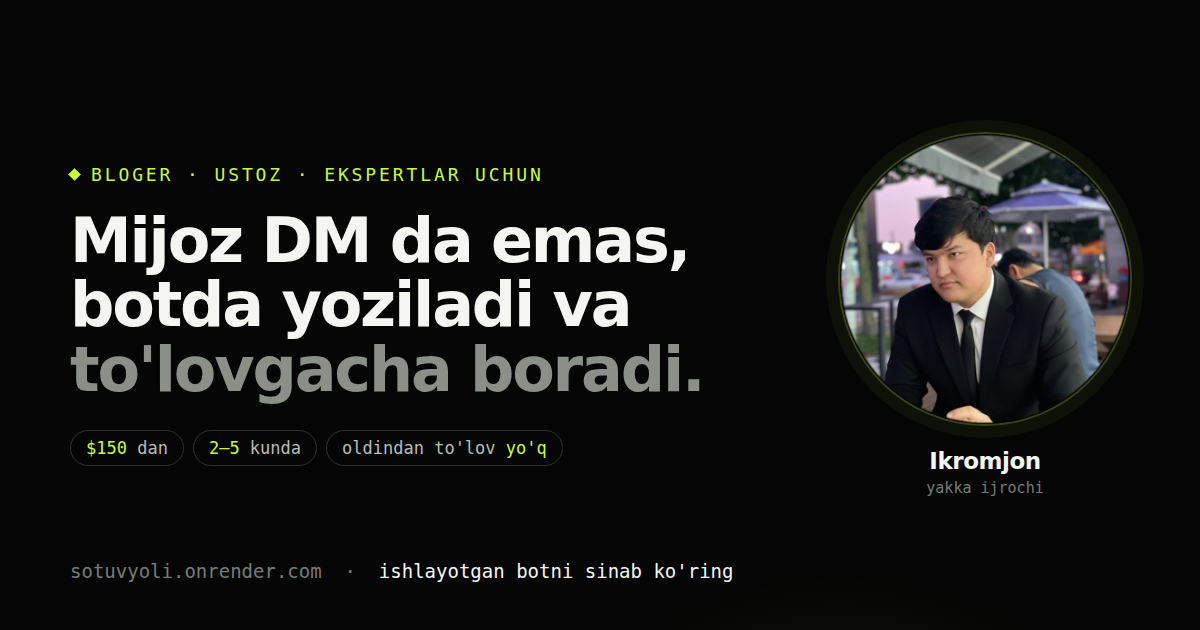
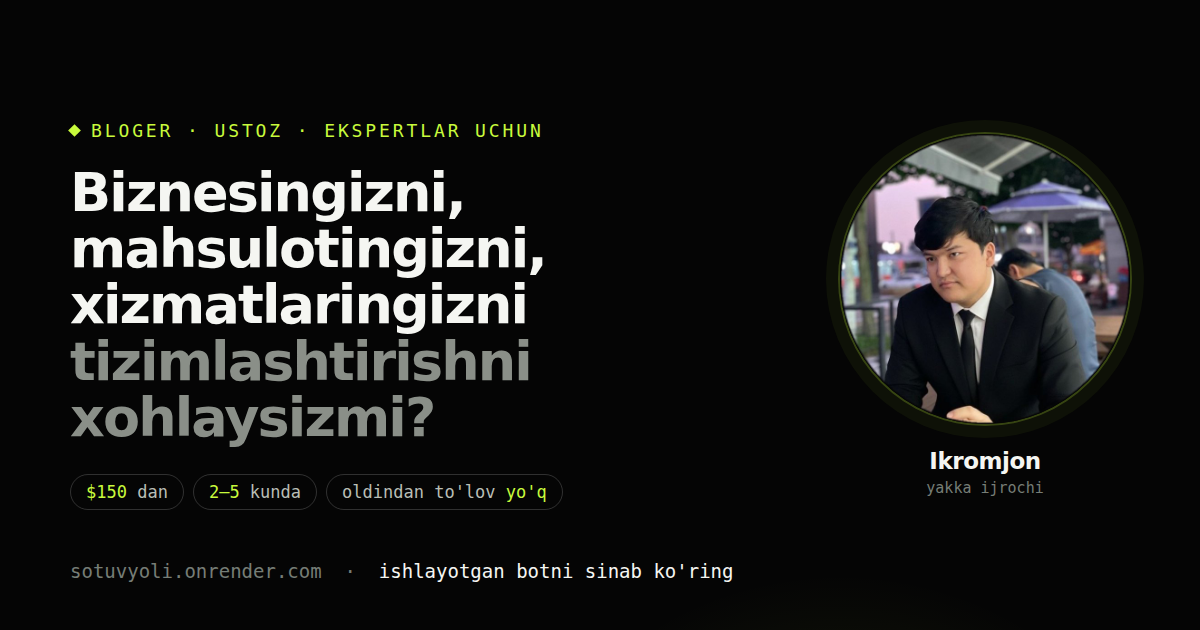
Sarlavha avvalgisi, bot manzili @uzpitsabot

diff --git a/index.html b/index.html
@@ -12,7 +12,7 @@
 <meta property="og:site_name" content="Sotuv yo'li">
 <meta property="og:locale" content="uz_UZ">
 <meta property="og:url" content="https://sotuvyoli.onrender.com/">
-<meta property="og:title" content="Mijoz DM da emas, botda yoziladi va to'lovgacha boradi">
+<meta property="og:title" content="Biznesingizni tizimlashtirishni xohlaysizmi?">
 <meta property="og:description" content="Sotuv sahifasi va Telegram bot. Ishlayotgan botni hozir sinab ko'rasiz. $150 dan, 2-5 kunda, oldindan to'lov yo'q.">
 <meta property="og:image" content="https://sotuvyoli.onrender.com/og.png">
 <meta property="og:image:width" content="1200">
@@ -236,7 +236,7 @@ html.anim .up.on, .up.on{opacity:1; transform:none}
     <div class="hero-grid">
       <div>
         <div class="kick"><i></i>Bloger · ustoz · ekspertlar uchun</div>
-        <h1 style="margin-top:1.2rem">Mijoz DM da emas, botda yoziladi va <em>to'lovgacha boradi.</em></h1>
+        <h1 style="margin-top:1.2rem">Biznesingizni, mahsulotingizni, xizmatlaringizni <em>tizimlashtirishni xohlaysizmi?</em></h1>
         <p class="sub">Sotuv sahifasi va Telegram bot quraman. <b>Ishlayotgan botni hozir sinab ko'rasiz</b> — pastda havolasi bor.</p>
 
         <div class="facts">
@@ -248,7 +248,7 @@ html.anim .up.on, .up.on{opacity:1; transform:none}
 
         <div class="btns" style="margin-top:1.7rem">
           <a class="btn btn--act" href="https://t.me/Controller_05">Telegramda yozing →</a>
-          <a class="btn" href="https://t.me/pizzauzbot">Ishlayotgan botni sinash ↗</a>
+          <a class="btn" href="https://t.me/uzpitsabot">Ishlayotgan botni sinash ↗</a>
         </div>
       </div>
 
@@ -278,11 +278,11 @@ html.anim .up.on, .up.on{opacity:1; transform:none}
         <div class="kick"><i></i>01 &nbsp;Ishonch</div>
         <h2 style="margin-top:1rem">Gapga ishonmang. Botni oching va buyurtma bering.</h2>
         <p style="margin-top:1rem; color:var(--fg-2); font-size:var(--t-lead)">
-          <b style="color:var(--fg)">@pizzauzbot</b> — men qurgan tizim, hozir tirik ishlab turibdi.
+          <b style="color:var(--fg)">@uzpitsabot</b> — men qurgan tizim, hozir tirik ishlab turibdi.
           Menyu, savatcha, telefon, manzil, to'lov. Buyurtma bersangiz javob keladi.
         </p>
         <div class="btns" style="margin-top:1.5rem">
-          <a class="btn btn--act" href="https://t.me/pizzauzbot">Botni ochish ↗</a>
+          <a class="btn btn--act" href="https://t.me/uzpitsabot">Botni ochish ↗</a>
         </div>
       </div>
[1 lines of base64/hex data omitted]
@@ -435,7 +435,7 @@ html.anim .up.on, .up.on{opacity:1; transform:none}
       <details><summary>To'lovni qabul qila oladimi?</summary><p>Payme va Click ulanadi. Naqd pul varianti ham qoldiriladi — O'zbekistonda buyurtmalarning katta qismi hali naqd.</p></details>
       <details><summary>Keyin o'zgartirish mumkinmi?</summary><p>Ha. Matn va narxlarni o'zingiz o'zgartirasiz — ko'rsataman. Tuzilma o'zgarsa menga yozasiz.</p></details>
       <details><summary>Kod kimniki bo'ladi?</summary><p>Sizniki. Domen, server, bot — hammasi sizning nomingizda ochiladi. Men hech narsani ushlab qolmayman.</p></details>
-      <details><summary>Haqiqiy mijoz ishlaringiz qani?</summary><p>Hozircha yo'q — men yangi boshlayapman. Buning o'rniga tirik demo bor: <b>@pizzauzbot</b>. Oching, buyurtma bering, o'zingiz ko'ring. Va oldindan pul so'ramayman — xavf mening ustimda.</p></details>
+      <details><summary>Haqiqiy mijoz ishlaringiz qani?</summary><p>Hozircha yo'q — men yangi boshlayapman. Buning o'rniga tirik demo bor: <b>@uzpitsabot</b>. Oching, buyurtma bering, o'zingiz ko'ring. Va oldindan pul so'ramayman — xavf mening ustimda.</p></details>
       <details><summary>Qancha vaqtimni oladi?</summary><p>20 daqiqalik suhbat va matnlarni tasdiqlash. Boshqa hech narsa.</p></details>
     </div>
   </div>
@@ -451,7 +451,7 @@ html.anim .up.on, .up.on{opacity:1; transform:none}
         <p style="margin-top:1rem; color:rgba(10,15,0,.75)">Javobida chizma, muddat va narx keladi. Ishlashga majbur emassiz.</p>
         <div class="btns" style="margin-top:1.6rem">
           <a class="btn btn--dark" href="https://t.me/Controller_05">@Controller_05 →</a>
-          <a class="btn" href="https://t.me/pizzauzbot">Botni sinash ↗</a>
+          <a class="btn" href="https://t.me/uzpitsabot">Botni sinash ↗</a>
         </div>
       </div>
       <ul class="cta-list">
